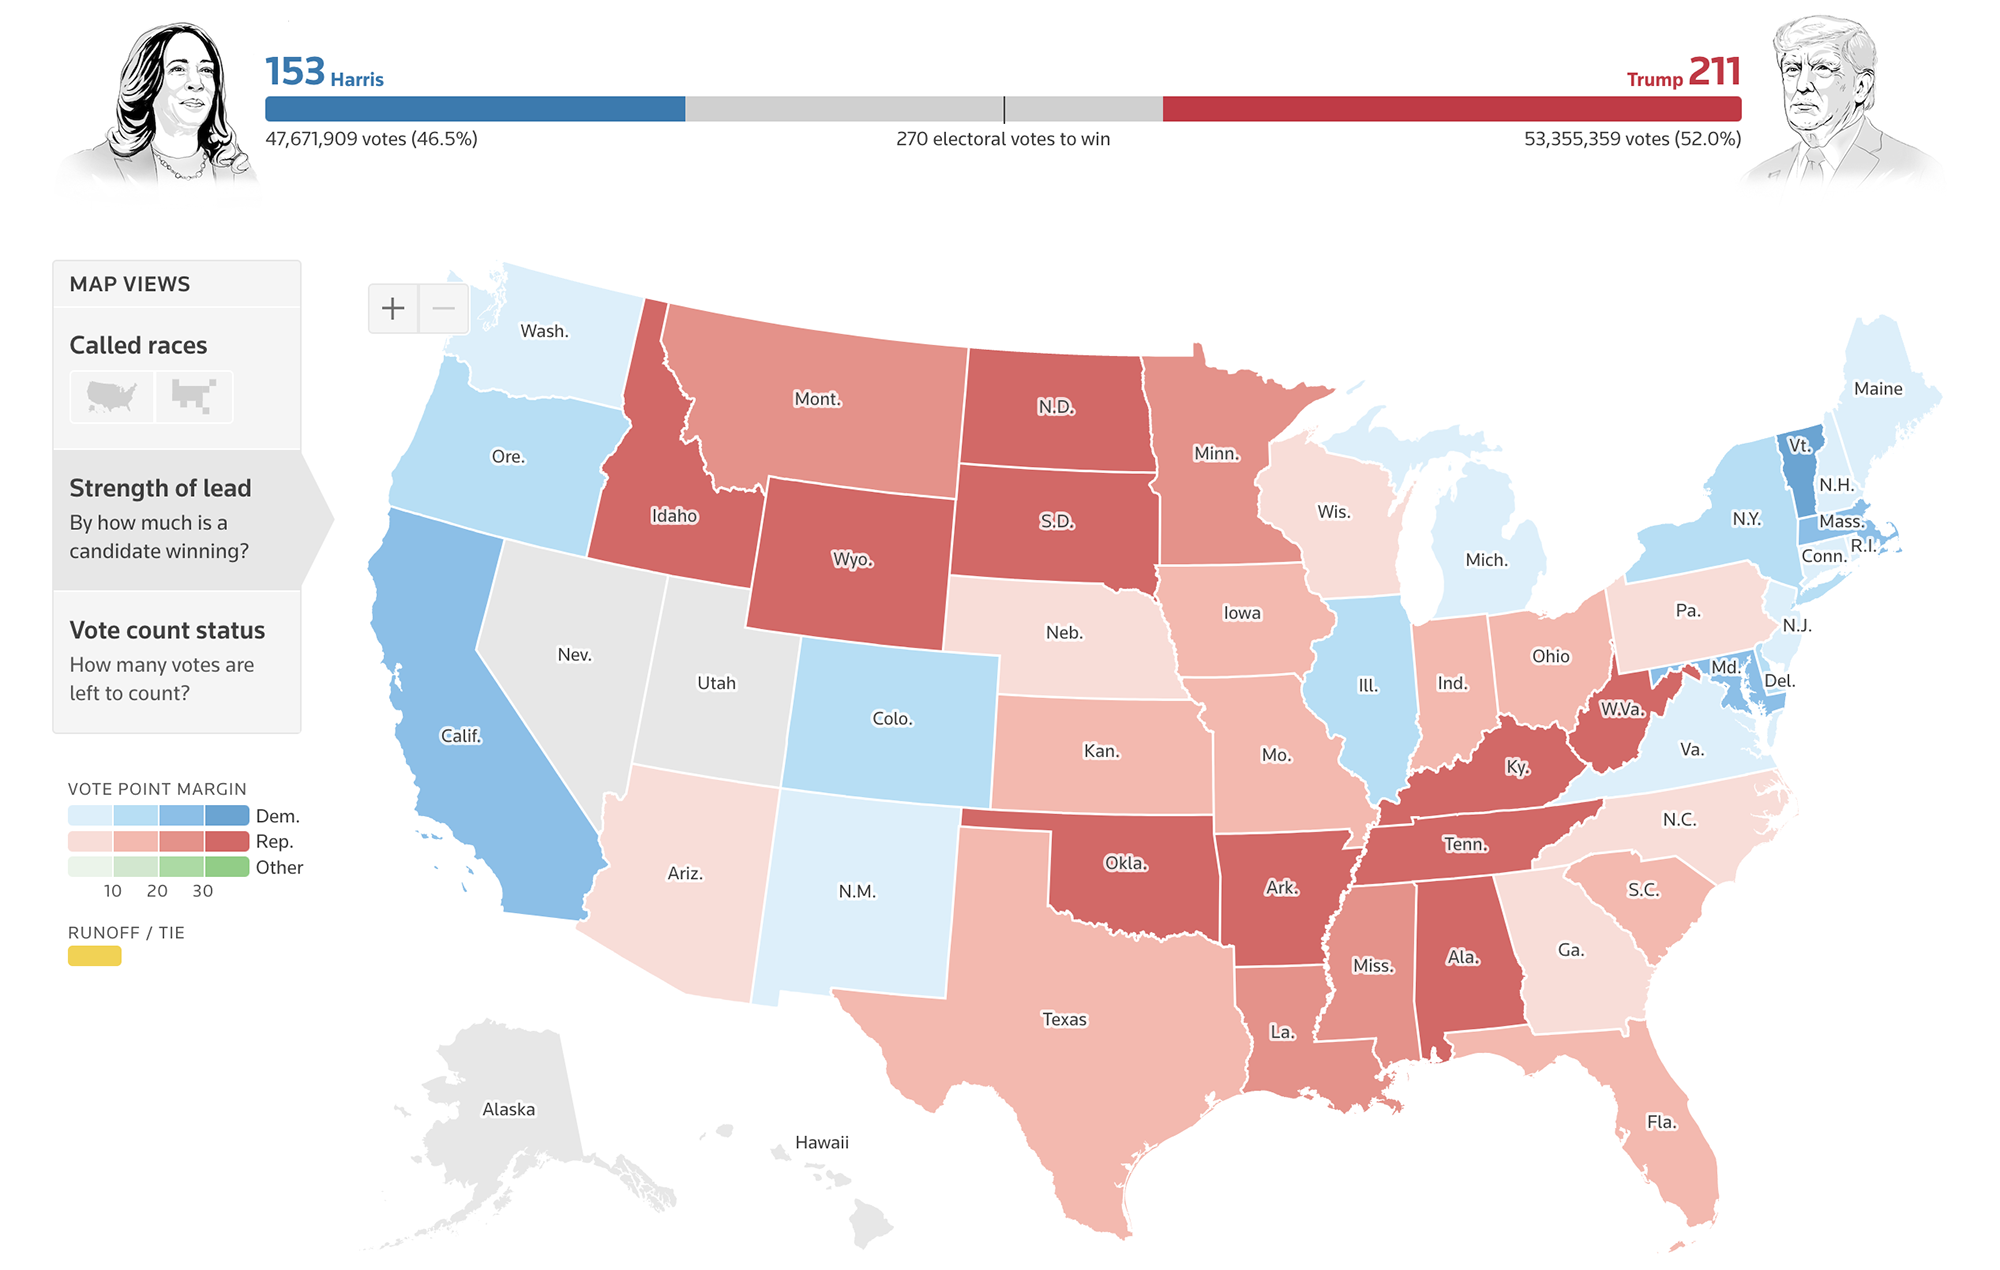
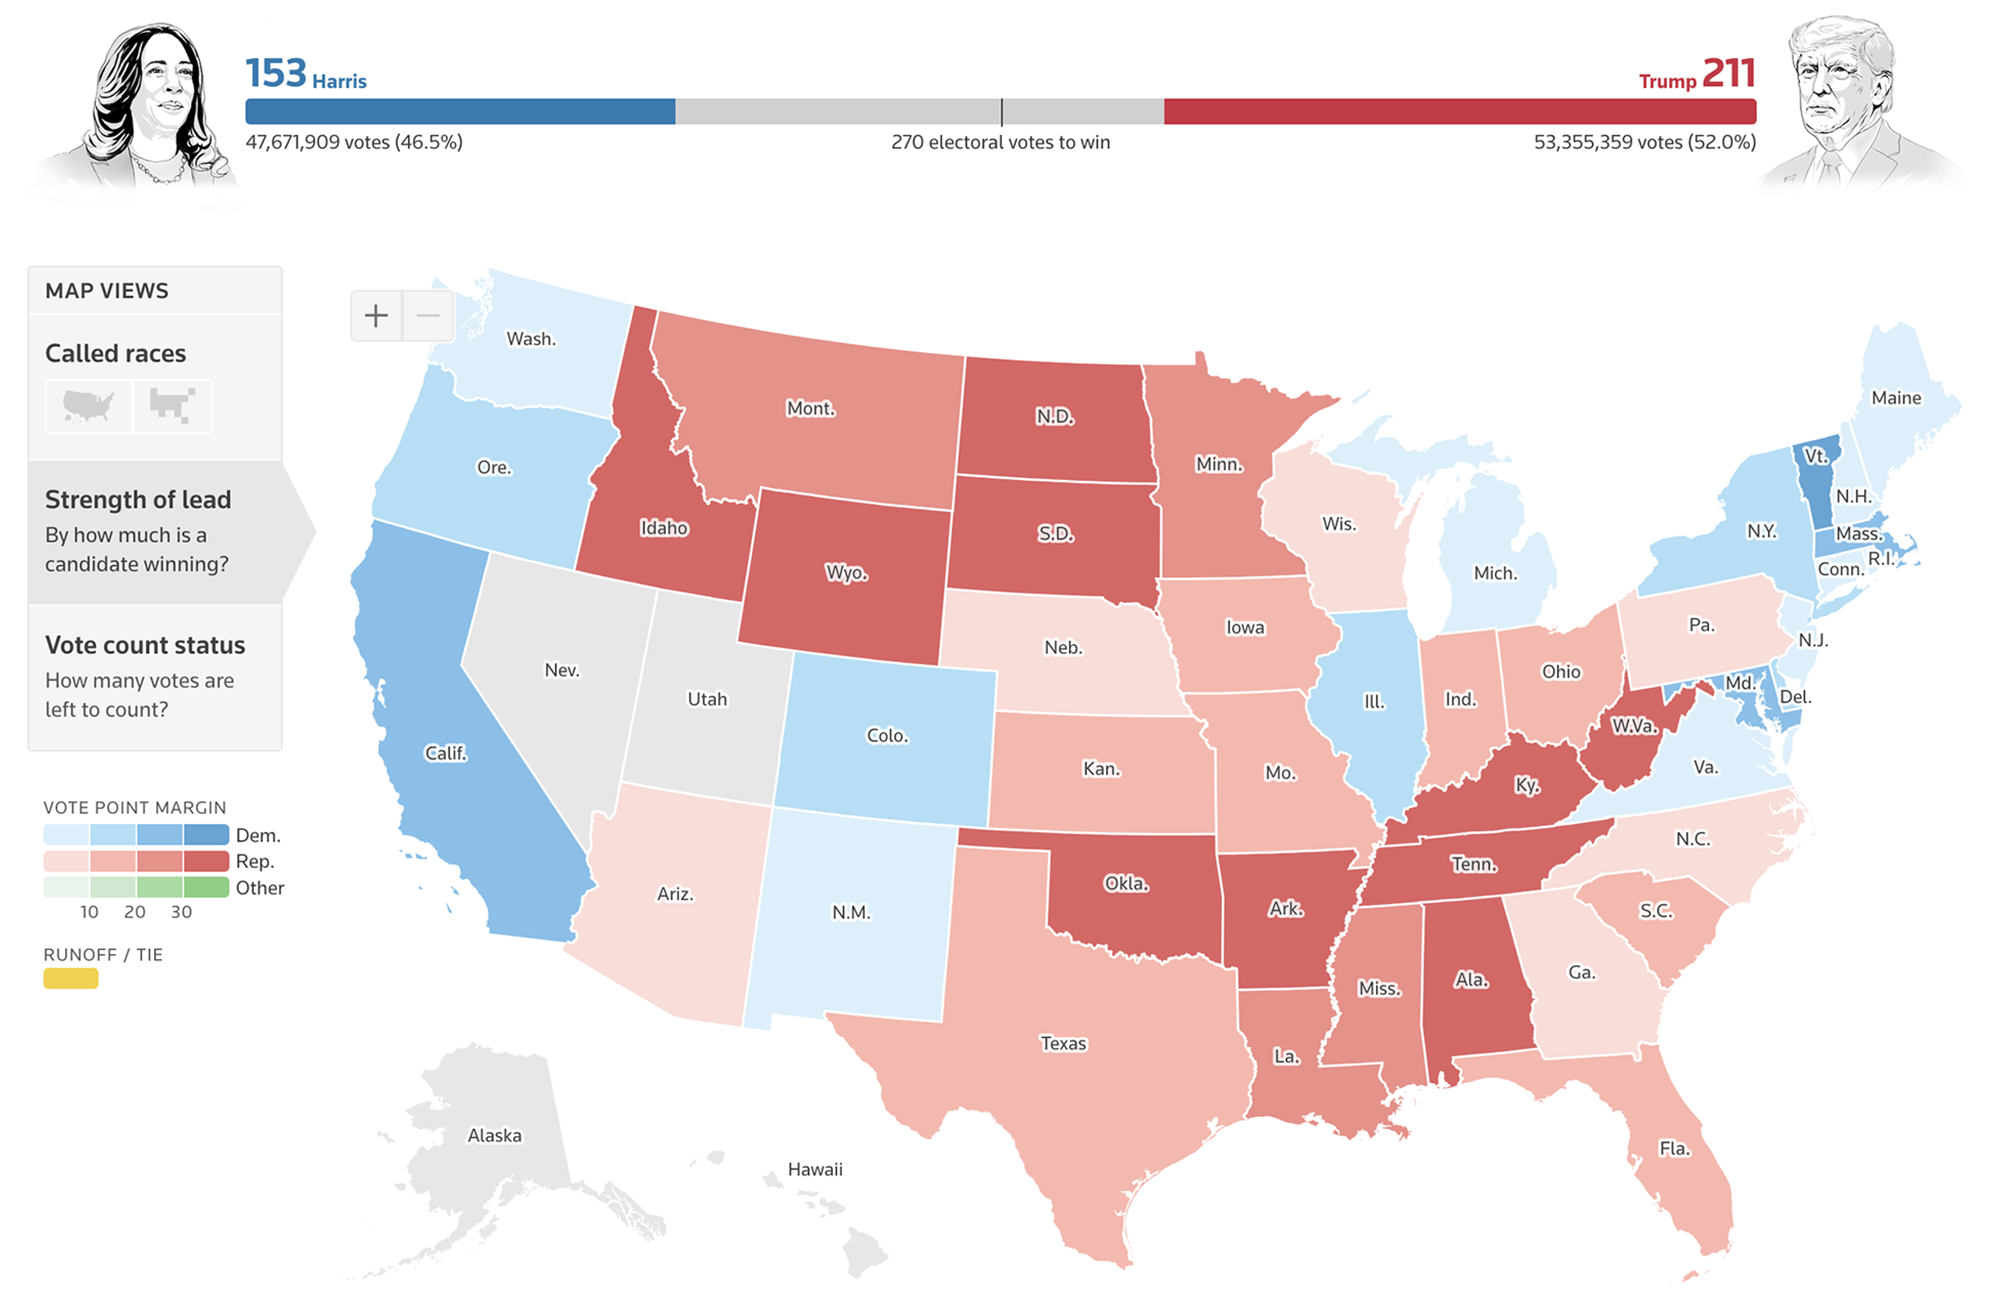
details on the small gallery

diff --git a/src/Components/PortfolioPage/USElections/images.js b/src/Components/PortfolioPage/USElections/images.js
@@ -4,19 +4,22 @@
 const imagesRawCalledRacesTop = [
     {
         id: 'one',
-        src: 'images/us-elections/national called races/Screenshot 2024-11-06 at 10.50.04.png',
+        srcSmall: 'images/us-elections/national called races/zoomed-out-1-small.png',
+        src: 'images/us-elections/national called races/zoomed-out-1.png',
         alt: '',
         rotate: Math.random()*20 - 10
     },
     {
         id: 'two',
-        src: 'images/us-elections/national called races/Screenshot 2024-11-06 at 13.54.54.png',
+        srcSmall: 'images/us-elections/national called races/zoomed-out-2-small.png',
+        src: 'images/us-elections/national called races/zoomed-out-2.png',
         alt: '',
         rotate: Math.random()*20 - 10
     },
     {
         id: 'three',
-        src: 'images/us-elections/national called races/Screenshot 2024-11-06 at 13.40.04.png',
+        srcSmall: 'images/us-elections/national called races/zoomed-out-3-small.png',
+        src: 'images/us-elections/national called races/zoomed-out-3.png',
         alt: '',
         rotate: Math.random()*20 - 10
     },
@@ -25,19 +28,22 @@ const imagesRawCalledRacesTop = [
 const imageRawCalledRacesBottom = [
     {
         id: 'four',
-        src:'images/us-elections/national called races/Screenshot 2024-11-06 at 12.05.40.png',
+        srcSmall:'images/us-elections/national called races/zoomed-in-1-small.png',
+        src:'images/us-elections/national called races/zoomed-in-1.png',
         alt: '',
         rotate: Math.random()*20 - 10
     },
     {
         id: 'five',
-        src: 'images/us-elections/national called races/Screenshot 2024-11-06 at 12.05.49.png',
+        srcSmall: 'images/us-elections/national called races/zoomed-in-2-small.png',
+        src: 'images/us-elections/national called races/zoomed-in-2.png',
         alt: '',
         rotate: Math.random()*20 - 10
     },
     {
         id: 'six',
-        src: 'images/us-elections/national called races/Screenshot 2024-11-06 at 15.16.01.png',
+        srcSmall: 'images/us-elections/national called races/zoomed-in-3-small.png',
+        src: 'images/us-elections/national called races/zoomed-in-3.png',
         alt: '',
         rotate: Math.random()*20 - 10
     }
@@ -45,6 +51,7 @@ const imageRawCalledRacesBottom = [
 
 const mainImageRawCalledRaces = {
     id: 'main',
+    srcSmall: 'images/us-elections/national called races/raclled-races-main-2-small.png',
     src: 'images/us-elections/national called races/raclled-races-main-2.png',
     alt: '',
     rotate: Math.random()*20 - 10
@@ -57,18 +64,21 @@ const mainImageRawCalledRaces = {
 const imagesRawStrengthOfLeadTop = [
     {
         id: 'one',
+        srcSmall: 'images/us-elections/national strength of lead/zoomed-out-1-small.png',
         src: 'images/us-elections/national strength of lead/zoomed-out-1.png',
         alt: '',
         rotate: Math.random()*20 - 10
     },
     {
         id: 'two',
+        srcSmall: 'images/us-elections/national strength of lead/zoomed-out-2-small.png',
         src: 'images/us-elections/national strength of lead/zoomed-out-2.png',
         alt: '',
         rotate: Math.random()*20 - 10
     },
     {
         id: 'three',
+        srcSmall: 'images/us-elections/national strength of lead/zoomed-out-3-small.png',
         src: 'images/us-elections/national strength of lead/zoomed-out-3.png',
         alt: '',
         rotate: Math.random()*20 - 10
@@ -78,18 +88,21 @@ const imagesRawStrengthOfLeadTop = [
 const imageRawStrengthOfLeadBottom = [
     {
         id: 'four',
+        srcSmall:'images/us-elections/national strength of lead/zoomed-in-1-small.png',
         src:'images/us-elections/national strength of lead/zoomed-in-1.png',
         alt: '',
         rotate: Math.random()*20 - 10
     },
     {
         id: 'five',
+        srcSmall: 'images/us-elections/national strength of lead/zoomed-in-2-small.png',
         src: 'images/us-elections/national strength of lead/zoomed-in-2.png',
         alt: '',
         rotate: Math.random()*20 - 10
     },
     {
         id: 'six',
+        srcSmall: 'images/us-elections/national strength of lead/zoomed-in-3-small.png',
         src: 'images/us-elections/national strength of lead/zoomed-in-3.png',
         alt: '',
         rotate: Math.random()*20 - 10
@@ -98,6 +111,7 @@ const imageRawStrengthOfLeadBottom = [
 
 const mainImageRawStrengthOfLead = {
     id: 'main',
+    srcSmall: 'images/us-elections/national strength of lead/main-1-small.png',
     src: 'images/us-elections/national strength of lead/main-1.png',
     alt: '',
     rotate: Math.random()*20 - 10

diff --git a/src/Components/PortfolioPage/USElections/USElections.css b/src/Components/PortfolioPage/USElections/USElections.css
@@ -1,9 +1,15 @@
 #us-elections-container {
   /* background-color: #E3EAF1; */
-  background-color: #ffffff;
+  /* background-color: #E9EFF5; */
+  background-color: #fff;
   width: 100%;
   height: 100vh;
-  padding: 20px;
+  /* padding: 20px; */
+  display: flex;
+  align-items: center;
+  justify-content: center;
+  flex-direction: column;
+  position: relative;
 }
 
 /******************************************/
@@ -25,28 +31,27 @@
   display: grid;
   /* grid-template-columns: repeat(3, 1fr);
   grid-template-rows: repeat(2, 1fr); */
-  grid-template-columns: repeat(auto-fit, minmax(100px, 1fr));
+  grid-template-columns: repeat(auto-fit, minmax(125px, 1fr));
   gap: 10px; 
-  width: 400px;
+  width: 420px;
+  margin-bottom: 10px;
 }
 
 #us-elections-container .grid-container.bottom {
-  /* background-color: #f4f4f4; */
-  border-radius: 5px;
 }
 
 #us-elections-container .grid-item {
-  /* border: 4px solid #fff; */
-  width: 130px;
-  height: 90px; 
+  width: 133px;
+  height: 87px; 
   overflow: hidden; 
   display: flex;
   align-items: center;
   justify-content: center;
-  border-radius: 10px;
-  box-shadow: 2px 2px 4px #0000002a;
+  border-radius: 5px;
+  box-shadow: 2px 2px 4px #D2DDE8;
   cursor: pointer;
   transition: all 0.3s ease-in-out;
+  cursor: url('cursor-expand.png'), crosshair;
 }
 #us-elections-container .grid-item:hover {
   box-shadow: 0px 6px 8px #e0e0e0;
@@ -62,8 +67,8 @@
 
 #us-elections-container .main-image-container {
   width: 100%;
-  max-width: 500px;
-  height: 330px;
+  width: 500px;
+  height: 325px;
   overflow: hidden; /* Ensures no part of the image overflows */
   display: flex;
   align-items: center;
@@ -75,11 +80,36 @@
   margin-top: 40px;
   /* border: 2px solid #000000; */
   /* box-shadow: 2px 8px 6px #e3e3e3; */
+  /* cursor: url('cursor-zoom.png'), crosshair; */
+  cursor: url('cursor-expand.png'), crosshair;
 }
 
 #us-elections-container .main-image-container img {
   width: 100%;
   height: 100%;
   object-fit: cover;
-  transform: scale(1); /* Zoom in by 20% */
+  transform: scale(1); 
+}
+
+/******************************************/
+/** Overlay image when image is clicked ***/
+/******************************************/
+#us-elections-container .overlay-image-container {
+  position: absolute;
+  top: 0;
+  left: 0;
+  width: 100%;
+  height: 100%;
+  background-color: #d2dde8a8;
+  backdrop-filter: blur(10px); /* Blur effect */
+  display: flex;
+  align-items: center;
+  justify-content: center;
+  cursor: url('cursor-decrease.png'), crosshair;
+}
+
+#us-elections-container .overlay-image-container img {
+  width: 1000px;
+  height: 650px;
+  border-radius: 10px;
 }

diff --git a/src/Components/PortfolioPage/USElections/USElections.js b/src/Components/PortfolioPage/USElections/USElections.js
@@ -1,4 +1,5 @@
 import "./USElections.css";
+import { useState } from 'react'
 import MapViewGallery from "./MapViewGallery";
 import { 
     imagesRawCalledRacesTop, imageRawCalledRacesBottom, mainImageRawCalledRaces,
@@ -10,6 +11,7 @@ import {
 
 const USElections = ({ project, windowWidth }) => {
 
+  const [selectedImage, setSelectedImage] = useState(null)
 
   return (
     <div id='us-elections-container' >
@@ -19,21 +21,36 @@ const USElections = ({ project, windowWidth }) => {
                 imagesTopRaw={imagesRawCalledRacesTop} 
                 imagesBottomRaw={imageRawCalledRacesBottom} 
                 mainImageRaw={mainImageRawCalledRaces} 
+                selectedImage={selectedImage}
+                setSelectedImage={setSelectedImage}
             />
             <MapViewGallery 
                 title='Strength of lead'
                 imagesTopRaw={imagesRawStrengthOfLeadTop} 
                 imagesBottomRaw={imageRawStrengthOfLeadBottom} 
                 mainImageRaw={mainImageRawStrengthOfLead} 
+                selectedImage={selectedImage}
+                setSelectedImage={setSelectedImage}
             />
             <MapViewGallery 
                 title='Vote counts'
                 imagesTopRaw={imagesRawVoteCountTop} 
                 imagesBottomRaw={imageRawVoteCountdBottom} 
                 mainImageRaw={mainImageRawVoteCount} 
+                selectedImage={selectedImage}
+                setSelectedImage={setSelectedImage}
             />
-
         </div>
+        {/* The big image overlay */}
+        {
+            selectedImage !== null &&
+            <div 
+                className="overlay-image-container"
+                onClick={() => { setSelectedImage(null) }}
+            >
+                <img src={selectedImage.src} alt={selectedImage.alt} />
+            </div>
+        }
     </div>
   )
 }

diff --git a/src/Components/PortfolioPage/USElections/MapViewGallery.js b/src/Components/PortfolioPage/USElections/MapViewGallery.js
@@ -1,8 +1,8 @@
 import { useState } from "react";
 import "./USElections.css";
+import cursorImage from './cursor.png'
 
-
-const MapViewGallery = ({imagesTopRaw, imagesBottomRaw, mainImageRaw, title }) => {
+const MapViewGallery = ({imagesTopRaw, imagesBottomRaw, mainImageRaw, title, selectedImage, setSelectedImage }) => {
 
   const [imagesTop, setImagesTop] = useState(imagesTopRaw)  
   const [imagesBottom, setImagesBottom] = useState(imagesBottomRaw)  
@@ -10,11 +10,24 @@ const MapViewGallery = ({imagesTopRaw, imagesBottomRaw, mainImageRaw, title }) =
 
   return (
     <div id='us-elections-container' >
-        <h1>{title}</h1>
+        <h2>{title}</h2>
         <p>
             Some kind of description of what this is about.
             Some kind of description of what this is about. 
         </p>
+
+        {/* The main image */}
+        <div 
+            className="main-image-container"
+            onClick={() => {
+                setSelectedImage(mainImage)
+            }}
+            style={{  }}
+        >
+            <img src={mainImage.src} alt={mainImage.alt} />
+        </div>
+
+        {/* Grid of smaller images */}
         <div className="grid-container top">
             {
                 imagesTop.map((img, idx) => (
@@ -44,9 +57,6 @@ const MapViewGallery = ({imagesTopRaw, imagesBottomRaw, mainImageRaw, title }) =
                     </div>
                 ))
             }
-        </div>
-        <div className="main-image-container">
-            <img src={mainImage.src} alt={mainImage.alt} />
         </div>
         <div className="grid-container bottom">
             {
